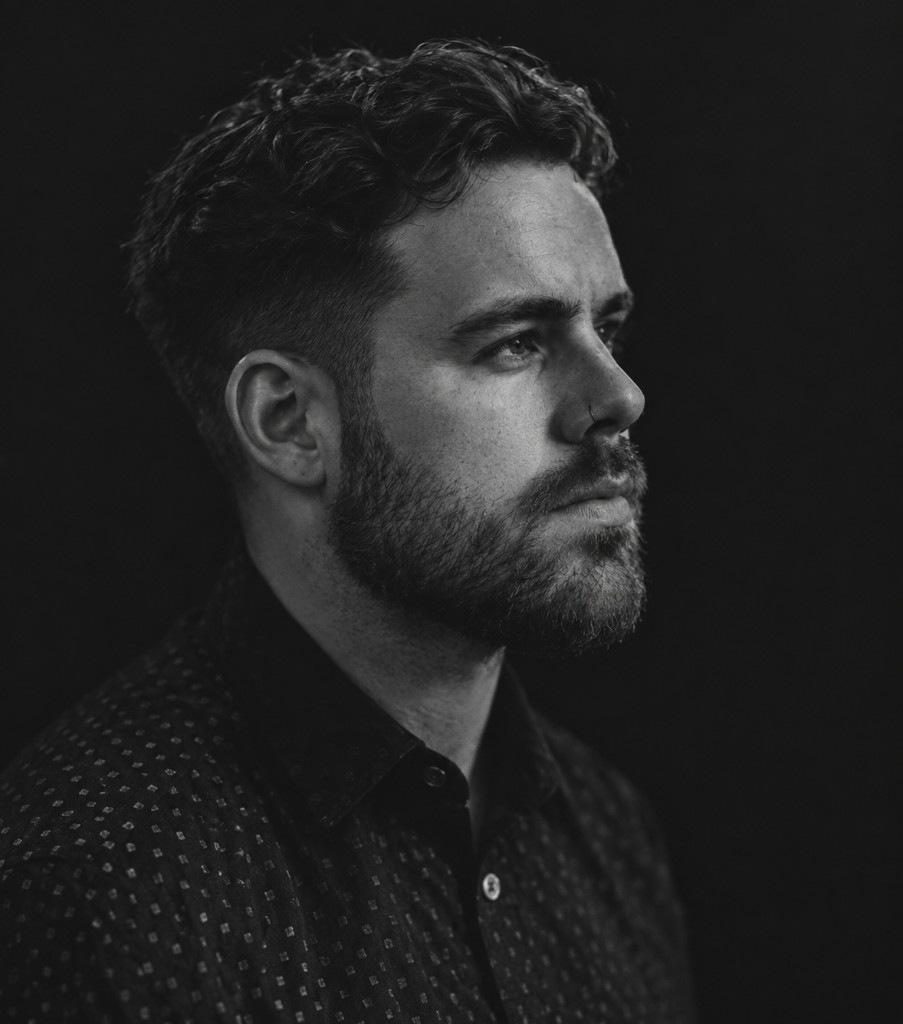
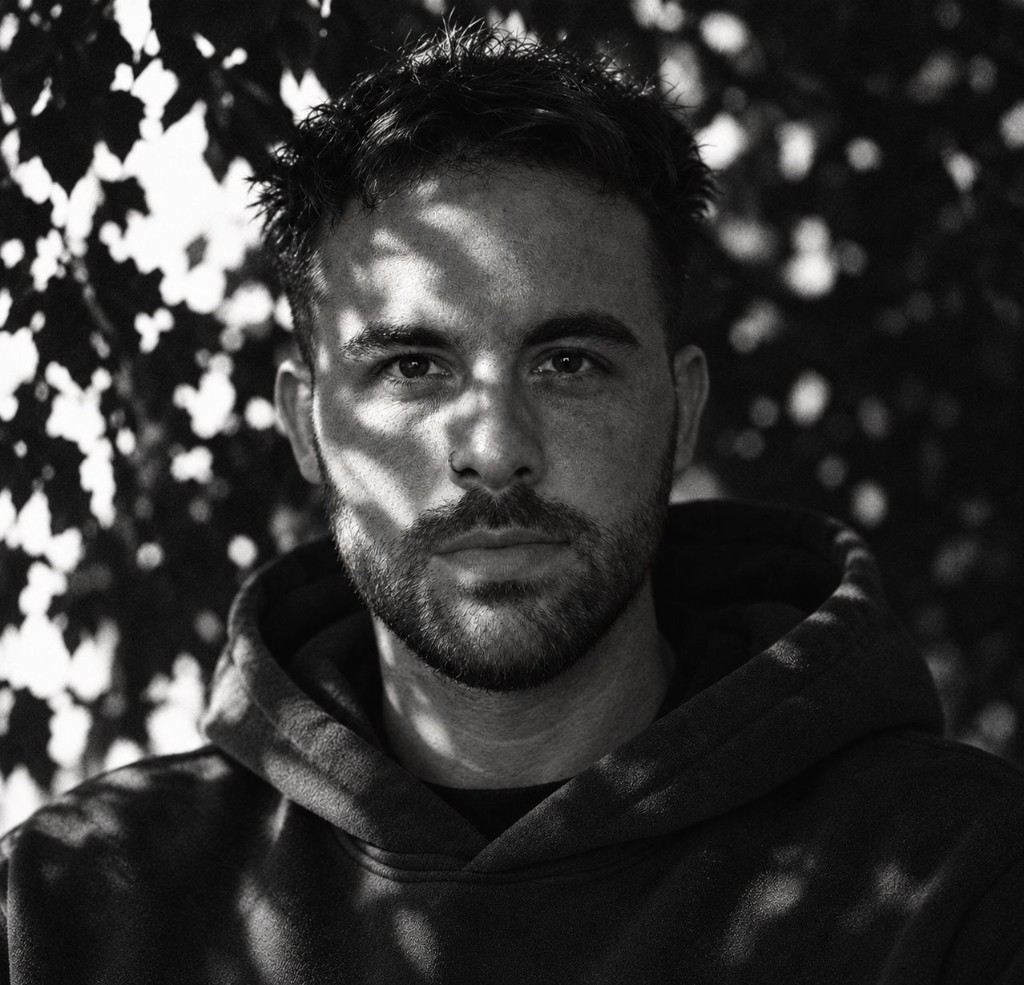
test

diff --git a/components/experience/WavePortfolio.tsx b/components/experience/WavePortfolio.tsx
@@ -1795,7 +1795,7 @@ export function WavePortfolio({
                           <img
                             src="/images/studio/joshua-corby.jpg"
                             alt="Joshua Corby"
-                            className="h-full w-full object-cover object-[50%_18%] grayscale"
+                            className="h-full w-full object-cover object-[50%_28%] grayscale"
                             draggable={false}
                           />
                           <span
@@ -1929,7 +1929,7 @@ export function WavePortfolio({
                           <img
                             src="/images/studio/joshua-corby.jpg"
                             alt="Joshua Corby"
-                            className="h-full w-full object-cover object-[50%_18%] grayscale"
+                            className="h-full w-full object-cover object-[50%_28%] grayscale"
                             draggable={false}
                           />
                           <span

diff --git a/LICENSE.md b/LICENSE.md
@@ -1,0 +1,74 @@
+# Licence
+
+## Gumroad blurb (paste under product details)
+
+```
+Licence summary
+
+Personal — Use on one personal or client site. No resale or redistribution of the source as a template or starter.
+
+Commercial / Agency — Use on unlimited client projects for your studio. Still no resale or redistribution of the source as a competing product or template.
+
+Not permitted on either licence: republishing this codebase (or a thin fork) as a template, theme, starter kit, or course asset.
+```
+
+---
+
+## Full licence terms
+
+**WebGL Portfolio Site — Wave Experience**  
+Copyright © Lab 13. All rights reserved.
+
+By purchasing or downloading this product you agree to these terms.
+
+### 1. Grant of licence
+
+Depending on the version you purchased:
+
+#### Personal licence
+You may:
+- Use the source code on **one** production website (your own or a single client site).
+- Modify the code for that site.
+- Keep private backups.
+
+You may **not**:
+- Use it on multiple client sites.
+- Resell, redistribute, share, or sublicense the source (modified or not).
+- Publish it as a template, theme, starter, boilerplate, or educational pack.
+- Offer the source as part of a SaaS / generator that outputs this codebase.
+
+#### Commercial / Agency licence
+You may:
+- Use the source on **unlimited** websites for yourself and paying clients.
+- Modify the code per project.
+- Keep private backups and internal studio copies.
+
+You may **not**:
+- Resell, redistribute, or sublicense the source as a product.
+- Publish it as a template, theme, starter, boilerplate, or educational pack.
+- Offer the source as part of a SaaS / generator that outputs this codebase.
+
+### 2. Ownership
+
+You own the sites you build with it.  
+Lab 13 retains ownership of the original template source and brand assets included in the download unless otherwise agreed in writing.
+
+### 3. Attribution
+
+Attribution is appreciated but **not required**.
+
+### 4. Third-party code
+
+Dependencies (Next.js, Three.js, Motion, etc.) remain under their own licences. This licence covers the original Lab 13 template code and included design/content structure only.
+
+### 5. Refunds
+
+Digital goods are generally non-refundable once downloaded. If the archive is corrupt or incomplete, contact the seller with your Gumroad receipt for a replacement download.
+
+### 6. No warranty
+
+The software is provided “as is”, without warranty of any kind. Lab 13 is not liable for damages arising from use of the template, including deployment or third-party hosting issues.
+
+### 7. Termination
+
+If you breach these terms, the licence ends and you must delete all copies of the source except for sites already lawfully built under a valid licence period.

diff --git a/SETUP.md b/SETUP.md
@@ -1,0 +1,59 @@
+# Setup
+
+## Requirements
+
+- Node.js **20+**
+- npm (comes with Node)
+- A code editor (Cursor, VS Code, etc.)
+
+## Install
+
+```bash
+npm install
+```
+
+## Run locally
+
+```bash
+npm run dev
+```
+
+Open [http://localhost:3000](http://localhost:3000).
+
+## Edit content
+
+| What | Where |
+|------|--------|
+| Projects / case studies | `content/projects.ts` |
+| Studio / About copy | `content/studio.ts` |
+| Site name, email, URL | `lib/site.ts` |
+| Services | `content/services.ts` |
+| Project images | `public/images/projects/` |
+| Audio (Track of the Day) | `public/audio/` |
+
+Homepage portfolio cards are mapped in `app/page.tsx` (`toWaveProject`).
+
+## Build for production
+
+```bash
+npm run build
+npm run start
+```
+
+## Deploy on Vercel
+
+1. Push the project to GitHub (or import the folder in Vercel).
+2. Create a new Vercel project from that repo.
+3. Framework preset: **Next.js** (auto-detected).
+4. Deploy.
+5. Add your custom domain under **Settings → Domains**.
+
+No special environment variables are required for the default portfolio experience.
+
+## Optional: Keystatic CMS
+
+This project includes Keystatic for content editing. For a simple template install you can ignore it and edit the TypeScript/YAML content files directly.
+
+## Support
+
+This is a coded template, not a hosted product. You’re expected to be comfortable with React / Next.js basics. Include your purchase email if you contact the seller about setup issues covered in this file.
